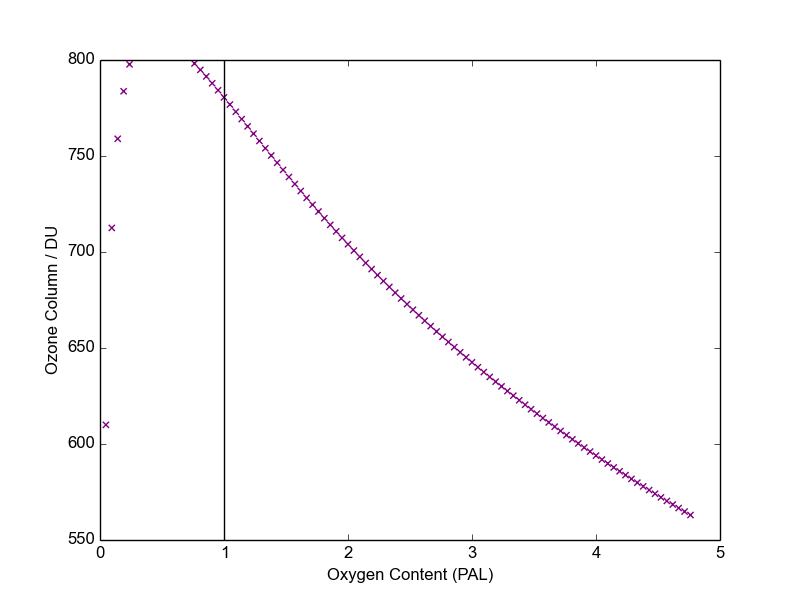
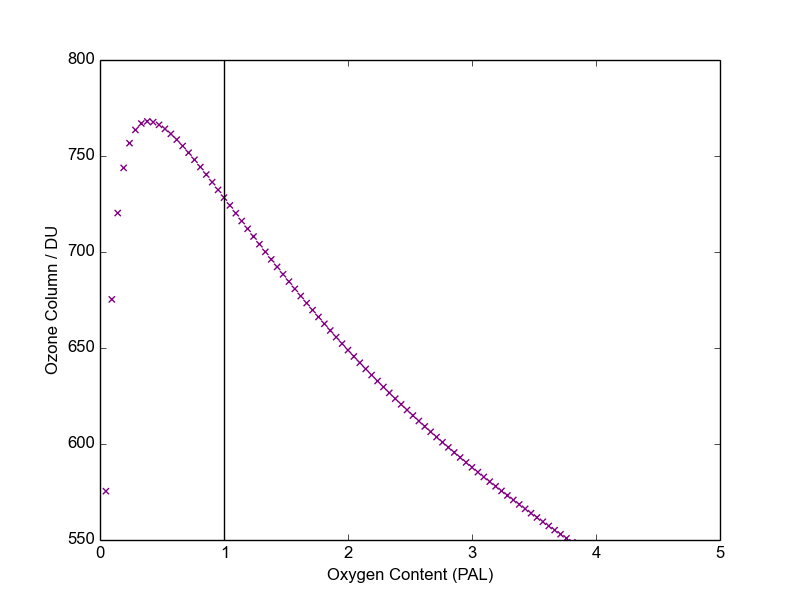
Tidy up

diff --git a/main.py b/main.py
@@ -25,16 +25,16 @@ ratio = 0.21
 # Steady state mode - can set up 'initial values' for chem scheme
 steadystate = True
 interactive = False
-numerics = True
+numerics = False
 new_numerics = False
 # Plotting scripts - plots oxygen vs ozone for a range of oxygen vals
-plot_on = False
-# Chemical scheme: ChapmanSS, Chapman
-chem_scheme = 'Chapman'
+plot_on = True
+## Chemical scheme: ChapmanSS, Chapman
+#chem_scheme = 'Chapman'
 
 #Constants
 #Number of atmospheric levels
-nlevs=41
+nlevs=161
 #Height, km
 h_min=0
 h_max=80
@@ -45,28 +45,11 @@ H=7
 M_surf=2.5E19*(ratio+0.79)
 
 # wavelength bins, interpolating o2 & solar onto o3 csec wavelengths, extract temps
-wlen,o2_c,o3_c,sol,T=extract_csec(heights)
-
-#convert sol to photons cm-2 s-1 nm-1 for binning
-sol=sol/0.05
-
-sol_bin_width=np.zeros(len(wlen))
-sol_bin_width[0]=2
-sol_bin_width[len(wlen)-1]=5
-for i in range(1,len(wlen)-2):
-        sol_bin_width[i]=0.5*(wlen[i+1]-wlen[i-1])
-
-o2_c=np.array(o2_c)
-o3_c=np.array(o3_c)
+sol_bin_width,o2_c,o3_c,sol,T=extract_csec(heights)
 
 if steadystate==True:
 	print "CALCULATING STEADY STATE OZONE COLUMN"
 	height,o3,o2,o,J_o2,J_o3,o3_running=steady(nlevs,h_max,h_min,H,M_surf,ratio,o2_c,o3_c,T,sol,sol_bin_width)
-	ncsave(heights,'O3',o3)
-	ncsave(heights,'O',o)
-	ncsave(heights,'O2',o2)
-	M=o2/ratio
-	ncsave(heights,'M',M)
 	altconc(height,o3,o3_running)
 
 #Interactive plot of ozone vs o2
@@ -100,9 +83,6 @@ if steadystate==True:
 			fig.canvas.draw_idle()
 		so2.on_changed(update)
 		plt.show()
-else:
-	if interactive==True:
-		print "Must run Steady State calc for Interactive Plotting routine"
 
 if plot_on==True:
 	logoxyoz(nlevs,h_max,h_min,H,o2_c,o3_c,T,sol,sol_bin_width)

diff --git a/data.py b/data.py
@@ -19,11 +19,20 @@ def extract_csec(heights):
                 	o2_binned_csec[i]=0
 	sol_fn=interpolate.interp1d(lambda_solr,solr)
 	sol_binned=sol_fn(lambda_bin)
+	#convert sol to photons cm-2 s-1 nm-1 for binning
+	sol_binned=sol_binned/0.05
+	sol_bin_width=np.zeros(len(lambda_bin))
+	sol_bin_width[0]=2
+	sol_bin_width[len(lambda_bin)-1]=5
+	for i in range(1,len(lambda_bin)-2):
+        	sol_bin_width[i]=0.5*(lambda_bin[i+1]-lambda_bin[i-1])
 	temp_data=np.loadtxt("temp.dat")
 	ht,temp=temp_data[:,0],temp_data[:,1]
 	temp_fn=interpolate.UnivariateSpline(ht,temp)
 	T=temp_fn(heights)
-	return lambda_bin,o2_binned_csec,o3_binned_csec,sol_binned,T
+	o2_binned_csec=np.array(o2_binned_csec)
+	o3_binned_csec=np.array(o3_binned_csec)
+	return sol_bin_width,o2_binned_csec,o3_binned_csec,sol_binned,T
 def ncsave(height,species,species_arr):
 	dataset=Dataset('netcdf/'+species+'.nc','w',format='NETCDF4')
 	dataset.createDimension('height',len(height))

diff --git a/steady_state.py b/steady_state.py
@@ -36,6 +36,11 @@ def steady(nlevs,h_max,h_min,H,M_surf,ratio,o2_c,o3_c,T,sol,sol_bin_width):
         	o2_sum[i]=o2_running
         	o3_running=o3_running+o3[i]*(1E5*(h_max-h_min)/(nlevs-1))
         	o3_sum[i]=o3_running
+        ncsave(height,'O3',o3)
+        ncsave(height,'O',o)
+        ncsave(height,'O2',o2)
+        M=o2/ratio
+        ncsave(height,'M',M)
 	#plt.plot(height,o3)
 	#plt.savefig('ozone.png')
 	return height,o3,o2,o,J_o2,J_o3,o3_running

diff --git a/test_code.py b/test_code.py
@@ -1,0 +1,4 @@
+def f(y,t):
+	for i in range:
+		d1[d1defs[i,0]]=y[0]
+	
